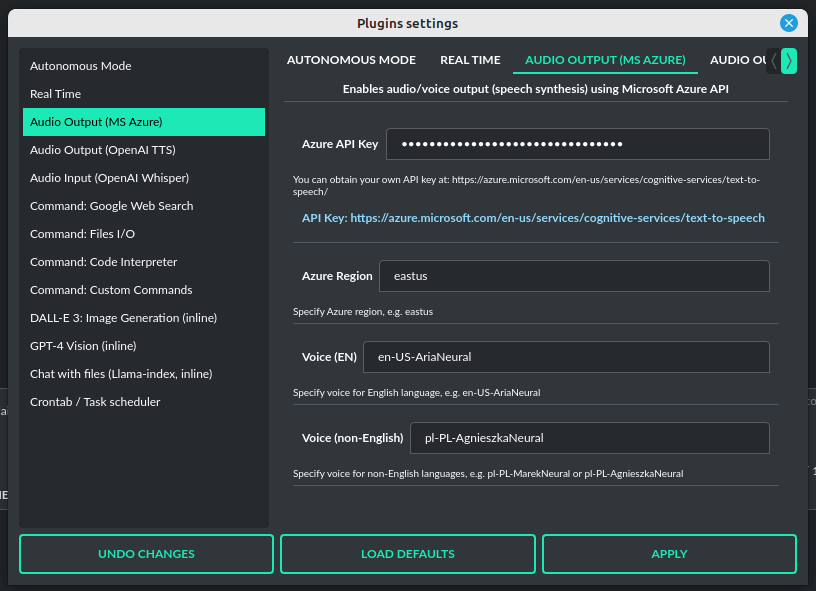
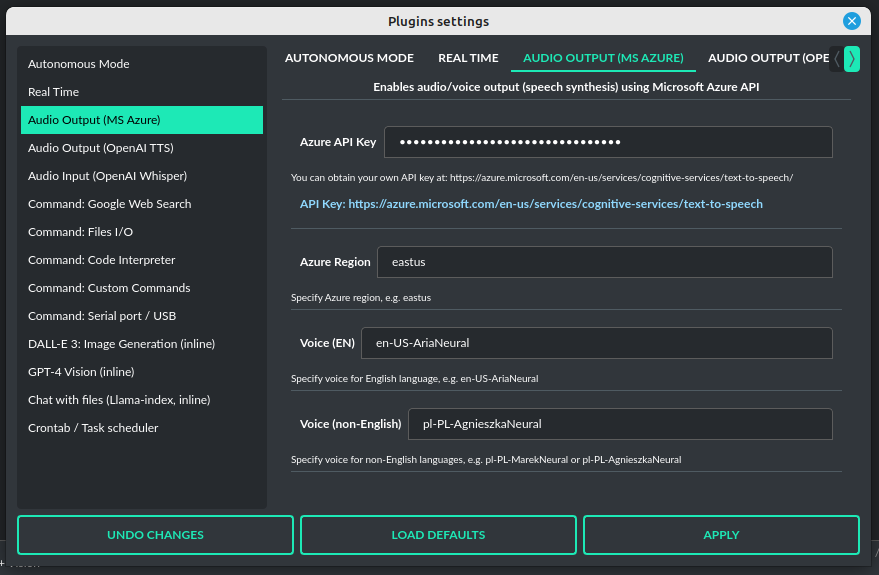
Updated docs

diff --git a/docs/source/plugins.rst b/docs/source/plugins.rst
@@ -9,7 +9,7 @@ The following plugins are currently available, and GPT can use them instantly:
 * ``Command: Files I/O`` - grants access to the local filesystem, enabling GPT to read and write files, as well as list and create directories.
 * ``Command: Code Interpreter`` - responsible for generating and executing Python code, functioning much like the `Code Interpreter` on `ChatGPT`, but locally. This means GPT can interface with any script, application, or code. The plugin can also execute system commands, allowing GPT to integrate with your operating system. Plugins can work in conjunction to perform sequential tasks; for example, the `Files` plugin can write generated Python code to a file, which the `Code Interpreter` can execute it and return its result to GPT.
 * ``Command: Custom Commands`` - allows you to create and execute custom commands on your system.
-* ``Command: Serial port / USB`` - plugin povides commands for reading and sending data to USB ports.
+* ``Command: Serial port / USB`` - plugin provides commands for reading and sending data to USB ports.
 * ``Audio Output (Microsoft Azure)`` - provides voice synthesis using the Microsoft Azure Text To Speech API.
 * ``Audio Output (OpenAI TTS)`` - provides voice synthesis using the `OpenAI Text To Speech API`.
 * ``Audio Input (OpenAI Whisper)`` - offers speech recognition through the `OpenAI Whisper API`.
@@ -23,7 +23,7 @@ The following plugins are currently available, and GPT can use them instantly:
 Command: Files I/O
 -----------------
 
-The plugin allows for file management within the local filesystem. It enables the model to create, read, and write files and directories located in the `data` directory, which can be found in the user's work directory. With this plugin, the AI can also generate Python code files and thereafter execute that code within the user's system.
+The plugin allows for file management within the local filesystem. It enables the model to create, read, and write files and directories located in the ``data`` directory, which can be found in the user's work directory. With this plugin, the AI can also generate Python code files and thereafter execute that code within the user's system.
 
 Plugin capabilities include:
 
@@ -252,6 +252,11 @@ Command: Serial port / USB
 Provides commands for reading and sending data to USB ports.
 
 **Tip:** in Snap version you must connect the interface first: https://snapcraft.io/docs/serial-port-interface
+
+You can send commands to, for example, an Arduino or any other controllers using the serial port for communication.
+
+.. image:: images/v2_serial.png
+   :width: 600
 
 ``USB port`` *serial_port*
 
@@ -637,35 +642,35 @@ replace_prompt.description = Replace whole system prompt with vision prompt agai
 
 - ``Allow command: camera capture`` *cmd_capture*
 
-Allow to use command: camera capture (``Execute commands`` option enabled is required).
+Allows use command: camera capture (``Execute commands`` option enabled is required).
 If enabled, model will be able to capture images from camera itself.
 
 
 - ``Allow command: make screenshot`` *cmd_screenshot*
 
-Allow to use command: make screenshot (``Execute commands`` option enabled is required).
+Allows use command: make screenshot (``Execute commands`` option enabled is required).
 If enabled, model will be able to making screenshots itself.
 
 
 Chat with files (Llama-index, inline)
 -------------------------------------
 
-Plugin integrates Llama-index storage in any chat and provides additional knowledge into context.
+Plugin integrates ``Llama-index`` storage in any chat and provides additional knowledge into context.
 
 - ``Ask Llama-index first`` *ask_llama_first*
 
 
-When enabled, then Llama-index will be asked first, and response will be used as additional knowledge in prompt. When disabled, then Llama-index will be asked only when needed.
+When enabled, then ``Llama-index`` will be asked first, and response will be used as additional knowledge in prompt. When disabled, then ``Llama-index`` will be asked only when needed.
 
 - ``Model`` *model_query*
 
 
-Model used for querying Llama-index, default: gpt-3.5-turbo
+Model used for querying ``Llama-index``, default: ``gpt-3.5-turbo``
 
 - ``Index name`` *idx*
 
 
-Index to use, default: base, support for multiple indexes coming soon
+Index to use, default: ``base``.
 
 
 Creating Your Own Plugins
@@ -673,19 +678,23 @@ Creating Your Own Plugins
 
 You can create your own plugin for **PyGPT** at any time. The plugin can be written in Python and then registered with the application just before launching it. All plugins included with the app are stored in the ``plugin`` directory - you can use them as coding examples for your own plugins.
 
-Extending PyGPT with custom plugins and LLMs wrappers:
+Extending PyGPT with custom plugins, LLMs wrappers and vector stores:
 
-- You can pass custom plugin instances and LLMs wrappers to the launcher.
+- You can pass custom plugin instances, LLMs wrappers and vector store providers to the launcher.
 
-- This is useful if you want to extend PyGPT with your own plugins and LLMs.
+- This is useful if you want to extend PyGPT with your own plugins, vectors storage and LLMs.
 
 To register custom plugins:
 
-- Pass a list with the plugin instances as the first argument.
+- Pass a list with the plugin instances as ``plugins`` keyword argument.
 
 To register custom LLMs wrappers:
 
-- Pass a list with the LLMs wrappers instances as the second argument.
+- Pass a list with the LLMs wrappers instances as ``llms`` keyword argument.
+
+To register custom vector store providers:
+
+- Pass a list with the vector store provider instances as ``vector_stores`` keyword argument.
 
 **Example:**
 
@@ -697,6 +706,7 @@ To register custom LLMs wrappers:
    from pygpt_net.app import run
    from my_plugins import MyCustomPlugin, MyOtherCustomPlugin
    from my_llms import MyCustomLLM
+   from my_vector_stores import MyCustomVectorStore
 
    plugins = [
        MyCustomPlugin(),
@@ -705,8 +715,15 @@ To register custom LLMs wrappers:
    llms = [
        MyCustomLLM(),
    ]
+   vector_stores = [
+       MyCustomVectorStore(),
+   ]
 
-   run(plugins, llms)  # <-- plugins as the first argument
+   run(
+       plugins=plugins,
+       llms=llms,
+       vector_stores=vector_stores
+   )
 
 ## Handling events
 

diff --git a/docs/source/models.rst b/docs/source/models.rst
@@ -80,7 +80,7 @@ There is bult-in support for those LLMs providers:
 Adding custom LLM providers
 ---------------------------
 
-Handling LLMs with Langchain is implemented through separated wrappers. This allows for the addition of support for any provider and model available via Langchain. All built-in wrappers for the models and its providers  are placed in the ``llm`` directory.
+Handling LLMs with Langchain is implemented through separated wrappers. This allows for the addition of support for any provider and model available via Langchain. All built-in wrappers for the models and its providers  are placed in the ``pygpt_net.provider.llm`` namespace.
 
 These wrappers are loaded into the application during startup using ``launcher.add_llm()`` method:
 
@@ -95,11 +95,7 @@ These wrappers are loaded into the application during startup using ``launcher.a
     from pygpt_net.provider.llm.llama import Llama2LLM
     from pygpt_net.provider.llm.ollama import OllamaLLM
 
-    def run(
-        plugins=None, 
-        llms=None, 
-        vector_stores=vector_stores
-    ):
+    def run(**kwargs):
         """Runs the app."""
         # Initialize the app
         launcher = Launcher()
@@ -127,7 +123,7 @@ Extending PyGPT with custom plugins and LLM wrappers is straightforward:
 
 To register custom LLM wrappers:
 
-- Provide a list of LLM wrapper instances as the second argument when initializing the custom app launcher.
+- Provide a list of LLM wrapper instances as the ``llms`` keyword argument when initializing the custom app launcher.
 
 **Example:**
 
@@ -155,7 +151,7 @@ To register custom LLM wrappers:
     )
 
 
-To integrate your own model or provider into **PyGPT**, you can reference the sample classes located in the ``llm`` directory of the application. These samples can act as an example for your custom class. Ensure that your custom wrapper class includes two essential methods: ``chat`` and ``completion``. These methods should return the respective objects required for the model to operate in ``chat`` and ``completion`` modes.
+To integrate your own model or provider into **PyGPT**, you can reference the sample classes located in the ``pygpt_net.provider.llm`` namespace of the application. These samples can act as an example for your custom class. Ensure that your custom wrapper class includes two essential methods: ``chat`` and ``completion``. These methods should return the respective objects required for the model to operate in ``chat`` and ``completion`` modes.
 
 
 Adding custom Vector Store providers
@@ -174,12 +170,9 @@ Adding custom Vector Store providers
     from pygpt_net.provider.vector_stores.redis import RedisProvider
     from pygpt_net.provider.vector_stores.simple import SimpleProvider
 
-    def run(plugins: list = None,
-            llms: list = None,
-            vector_stores: list = None
-        ):
+    def run(**kwargs):
 
-To register your custom vector store provider just register it by passing provier instance to ``vector_stores`` list:
+To register your custom vector store provider just register it by passing provider instance in ``vector_stores`` keyword argument:
 
 .. code-block:: python
 

diff --git a/docs/source/attachments.rst b/docs/source/attachments.rst
@@ -29,26 +29,3 @@ To allow the model to manage files or python code execution, the ``Execute comma
 
 .. image:: images/v2_code_execute.png
    :width: 400
-
-
-Draw (paint)
-=============
-
-Using the ``Draw`` tool, you can create quick sketches and submit them to the model for analysis. You can also edit open or camera-captured images, for example, by adding elements like arrows or outlines to objects. Additionally, you can capture screenshots from the system - the captured image is placed in the drawing tool and attached to the query being sent.
-
-.. image:: images/v2_draw.png
-   :width: 800
-
-To quick capture the screenshot click on the option ``Ask with screeshot`` in tray-menu dropdown:
-
-.. image:: images/v2_screenshot.png
-   :width: 400
-
-
-Calendar
-=========
-
-Using the calendar, you can go back to selected conversations from a specific day and add daily notes. After adding a note, it will be marked on the list, and you can change the color of its label by right-clicking and selecting Set label color. By clicking on a particular day of the week, conversations from that day will be displayed.
-
-.. image:: images/v2_calendar.png
-   :width: 800

diff --git a/docs/source/tools.rst b/docs/source/tools.rst
@@ -1,0 +1,21 @@
+Draw (paint)
+=============
+
+Using the ``Draw`` tool, you can create quick sketches and submit them to the model for analysis. You can also edit open or camera-captured images, for example, by adding elements like arrows or outlines to objects. Additionally, you can capture screenshots from the system - the captured image is placed in the drawing tool and attached to the query being sent.
+
+.. image:: images/v2_draw.png
+   :width: 800
+
+To quick capture the screenshot click on the option ``Ask with screeshot`` in tray-menu dropdown:
+
+.. image:: images/v2_screenshot.png
+   :width: 400
+
+
+Calendar
+=========
+
+Using the calendar, you can go back to selected conversations from a specific day and add daily notes. After adding a note, it will be marked on the list, and you can change the color of its label by right-clicking and selecting Set label color. By clicking on a particular day of the week, conversations from that day will be displayed.
+
+.. image:: images/v2_calendar.png
+   :width: 800

diff --git a/docs/source/intro.rst b/docs/source/intro.rst
@@ -19,7 +19,7 @@ Multiple operation modes are included, such as chatbot, text completion, assista
 
 Features
 ---------
-* Desktop AI Assistant for ``Windows`` and ``Linux``, written in Python.
+* Desktop AI Assistant for ``Linux``, ``Windows`` and ``Mac``, written in Python.
 * Works similarly to ``ChatGPT``, but locally (on a desktop computer).
 * 6 modes of operation: Assistant, Chat, Vision, Completion, Image generation, Langchain.
 * Supports multiple models: ``GPT-4``, ``GPT-3.5``, and ``GPT-3``, including any model accessible through ``Langchain``.
@@ -55,8 +55,8 @@ Features
 * Utilizes the user's own API key.
 
 
-The application is free, open-source, and runs on PCs with ``Windows 10``, ``Windows 11``, and ``Linux``. 
-The full Python source code is available on ``GitHub``.
+The application is free, open-source, and runs on PCs with ``Linux``, ``Windows 10``, ``Windows 11`` and ``Mac``. 
+Full Python source code is available on ``GitHub``.
 
 
 **PyGPT uses the user's API key  -  to use the application, 

diff --git a/docs/source/requirements.rst b/docs/source/requirements.rst
@@ -1,21 +1,21 @@
 Requirements and installation
 ==============================
 
-Compiled binary version
------------------
+Compiled binary versions
+------------------------
 **PyGPT** requires a PC with Windows 10, 11 or Linux. Just download the installer or
 archive with the appropriate version from the download page and then extract it
 or install it and run the application.
 
 Windows 10, 11 (64-bit)
-```````
+```````````````````````
 The application is available for 64-bit Windows 10, 11 in the form of an MSI installer.
 The installer will automatically install all required dependencies and create
 a shortcut on the desktop. Just download the installer from the download page and
 run it
 
 Linux (64-bit)
-`````
+``````````````
 The application is available for 64-bit Linux in the form of an archive with
 all required dependencies. Just download the archive from the download page and
 extract it. Then run the application by running the ``pygpt`` binary file in the

diff --git a/docs/source/index.rst b/docs/source/index.rst
@@ -3,15 +3,15 @@
    You can adapt this file completely to your liking, but it should at least
    contain the root `toctree` directive.
 
-PyGPT v2 - pygpt.net
+PyGPT - pygpt.net
 ====================
 
-| **Last update:** 2024-01-24 18:00
+| **Last update:** 2024-01-25 12:00
 | **Project website:** https://pygpt.net
 | **GitHub:** https://github.com/szczyglis-dev/py-gpt
 | **Snap Store:** https://snapcraft.io/pygpt
 | **PyPI:** https://pypi.org/project/pygpt-net
-| **Release:** 2.0.117 (2024-01-24)
+| **Release:** 2.0.118 (2024-01-25)
 
 .. toctree::
    :maxdepth: 3
@@ -27,6 +27,7 @@ Contents
    quick_start
    modes
    attachments
+   tools
    context
    presets
    images

diff --git a/docs/source/notebook.rst b/docs/source/notebook.rst
@@ -1,7 +1,7 @@
-Notebook
+Notepad
 ===========
 
-The application has a built-in notebook, divided into several tabs. This can be useful for storing informations in a convenient way, without the need to open an external text editor. The content of the notebook is automatically saved whenever the content changes.
+The application has a built-in notepad, divided into several tabs. This can be useful for storing information in a convenient way, without the need to open an external text editor. The content of the notepad is automatically saved whenever the content changes.
 
 .. image:: images/v2_notepad.png
    :width: 600

diff --git a/docs/source/configuration.rst b/docs/source/configuration.rst
@@ -41,6 +41,8 @@ The following basic options can be modified directly within the application:
 
 * ``Display tips (help descriptions)``: display help tips, Default: True
 
+* ``Show tray icon``: tray icon provides additional features like "Ask with screenshot" or "Open notepad", restart required, Default: True
+
 * ``Use theme colors in chat window``: use color theme in chat window, Default: True
 
 * ``Disable markdown formatting in output``: enable plain-text display in output window, Default: False

diff --git a/docs/source/credits.rst b/docs/source/credits.rst
@@ -1,5 +1,5 @@
 Credits
-======================
+========
 
 **Official website:**
 https://pygpt.net
@@ -24,8 +24,9 @@ MIT License
 
 
 Special thanks
-======================
+===============
 GitHub community:
 
 **kaneda2004**
+
 **moritz-t-w**
